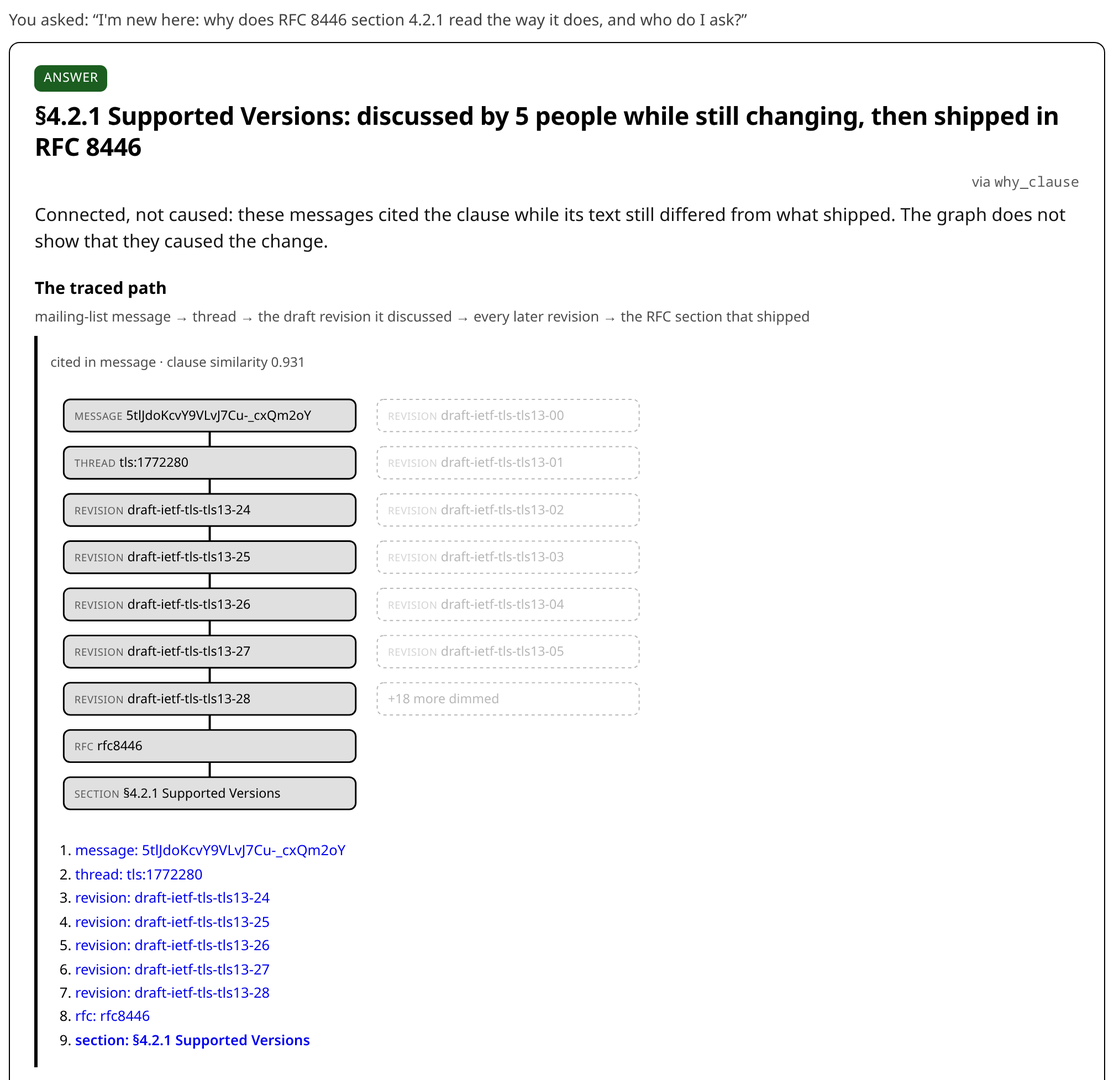
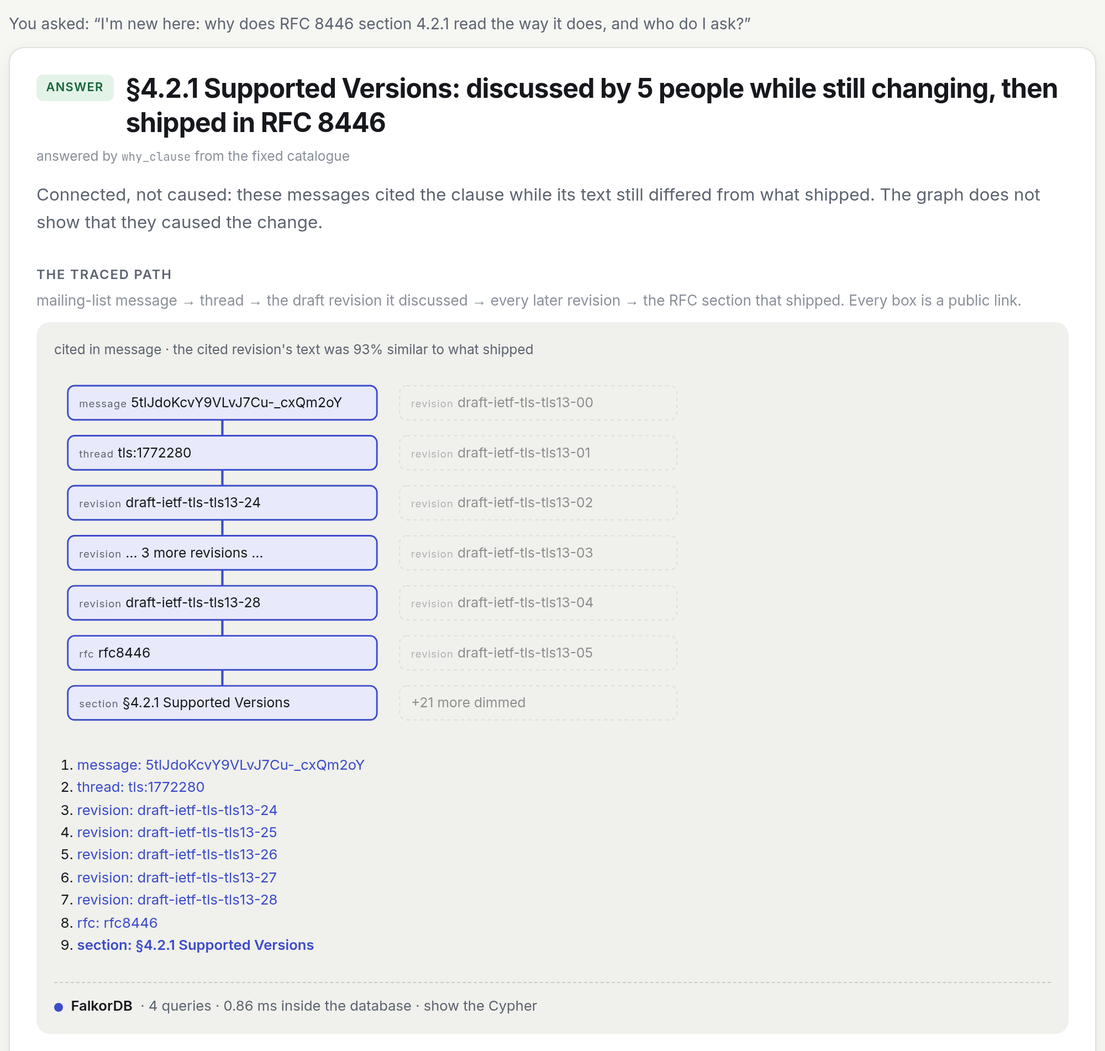
docs: README on the full record, the FalkorDB features and both held-out results
Every number re-measured tonight: 8,300 nodes, 55,603 edges, 3,078
messages (1,324 with text), 333 CITES, 47 traceable clauses; bench graph
13/13, RAG 1/10 exact and 3/10 in its top 10, subset graph 3/3 vs RAG 1/3;
held-out set 2 untuned 30/40 strict (31/40 with either decline), with the
scorer's 34/40 and why it was too lenient both stated; link check re-run
on the current graph, 10 of 276 sampled, 10/10 resolve. New sections for
the full-text, projection and algorithm queries, and limits for name-based
person merging, heading-only resolution, day-precision dates and the
dropped label-propagation communities. Screenshots retaken in the new design.

diff --git a/README.md b/README.md
@@ -1,78 +1,106 @@
 # Ratified
 
-**Ask why a decision was made, and get the dated discussion behind it, the people who were there, and who to ask now. Every answer is a FalkorDB graph path that ends in a public link.**
+**Ask why a decision was made, and get the dated discussion behind it, the people who were there, and who to ask now. Every answer is a FalkorDB graph traversal that ends in a public link, and every answer card shows the Cypher that produced it.**
 
 Every team argues in chat and forgets who decided what. Ratified is a company brain built on an organisation where every argument is public, the IETF's TLS working group, so a judge can click any answer through to the original email.
 
 Graph Hacks 2026 (WeMakeDevs × FalkorDB) · **Track 03: Company Brain** · Live demo: _link added at deploy_ · Demo video: _link added before submission_
 
-![The scenario answered: RFC 8446 §4.2.1 traced from a 2018 mailing-list message, through draft revisions -24 to -28, to the section that shipped](assets/scenario-path.png)
+![RFC 8446 §4.2.1 traced from a March 2018 mailing-list message, through draft revisions -24 to -28, to the section that shipped, with the FalkorDB query panel](assets/scenario-path.png)
 
 ## The scenario (one click on the live page)
 
-You just joined a team shipping TLS 1.3. RFC 8446 negotiates the protocol version in a `supported_versions` extension instead of the version field everyone used before. Why? The people who settled it are spread across years of mailing-list threads.
+You just joined a team shipping TLS 1.3. RFC 8446 negotiates the protocol version in a `supported_versions` extension instead of the version field every earlier TLS used. Why? The people who settled it are spread across years of mailing-list threads.
 
 Ask *"I'm new here: why does RFC 8446 section 4.2.1 read the way it does, and who do I ask?"* and the graph returns:
 
-1. **The discussion.** 6 messages from 5 people in the thread *"draft-ietf-tls-tls13-24 supported_versions complexity"* (1–3 March 2018) cited §4.2.1 while the draft was at -24, and the clause's text at -24 still differed from what shipped.
-2. **The traced path.** message → thread → draft-ietf-tls-tls13-24 → -25 → -26 → -27 → -28 → RFC 8446 → §4.2.1. Every node is a link to the datatracker, the mail archive or the RFC Editor.
-3. **Who to ask now.** The 5 people who cited the clause, plus the current TLS chairs and area directors, by name from the datatracker.
-4. **A drafted question.** Addressed to them, citing the thread and the section. It is rendered on the page and **never sent**: Ratified sends no email.
+1. **The discussion.** 6 messages from 5 people in the thread *"draft-ietf-tls-tls13-24 supported_versions complexity"* (1–3 March 2018) cited §4.2.1 while draft -24 was current, and §4.2.1's text in -24 still differed from what shipped.
+2. **The traced path.** message → thread → draft-ietf-tls-tls13-24 → -25 → -26 → -27 → -28 → RFC 8446 → §4.2.1. Every node is a link to the mail archive, the datatracker or the RFC Editor.
+3. **What to read with it.** Clauses cited in the same messages: §4.1.3 Server Hello (6 shared messages), §4.1.2 Client Hello and §4.1.4 Hello Retry Request (2 each).
+4. **Who to ask now.** The 5 people who cited it, plus the current TLS chairs and area directors, by name from the datatracker.
+5. **A drafted question** to them, citing the thread and the section. It is rendered and **never sent**.
+6. **The proof.** A panel listing the 4 Cypher queries FalkorDB ran for the card (under 1 ms inside the database).
 
-Ask about a section the RFC doesn't have (§9.4) and the card says **"the graph does not know"**. Ask about IESG ballots or meeting minutes, which were never ingested, and it declines rather than guessing.
+You don't need a section number. *"Why does early data work like this in TLS 1.3?"* resolves to §4.2.10 Early Data Indication through FalkorDB's full-text index on section headings. The card says which words matched and offers the runner-up clauses as one-click alternatives. *"What did people say about middleboxes?"* returns quotes from the list. *"Who knows the most about TLS 1.3?"* ranks people with FalkorDB's PageRank. Ask about IESG ballots or meeting minutes, which were never ingested, and the card says **the graph does not know**.
+
+![The landing page: the scenario, the 47 clauses with a traced discussion, and the PageRank ranking](assets/landing.png)
 
 ## What the graph holds
 
-One FalkorDB graph per working group, rebuilt from the cached public record in one command:
+One FalkorDB graph for one working group, rebuilt from the committed public record in one command:
 
 | | Count | Source |
 |---|---:|---|
-| Mailing-list messages | 2,011 (291 threads, 339 people) | mailarchive.ietf.org browse pages and message downloads |
-| Drafts / draft revisions | 113 / 839 | datatracker API (`/api/v1/doc/…`) |
+| Mailing-list messages | 3,078 (2013–2026), **1,324 with their full text** | mailarchive.ietf.org browse and search pages, message downloads |
+| Threads / people | 633 / 403 | the same |
+| Drafts / draft revisions | 113 / 839 | datatracker API |
 | RFCs a draft became | 66 | datatracker `became_rfc` relations |
 | RFC 8446 sections | 84 | rfc-editor.org text |
 | Chairs / area directors | 3 / 2 | datatracker roles and person records |
-| **Total** | **5,760 nodes · 9,814 edges** | |
+| **Total** | **8,300 nodes · 55,603 edges** | |
+
+The TLS 1.3 design era is covered by one archive search per draft revision, -18 to -28, with every message body downloaded (0 failures). That gives 333 `CITES` edges and **47 RFC 8446 clauses** that can be traced to a discussion.
 
 ### Graph data model
 
 ```
 (Person)-[:AUTHORED]->(Message)-[:IN_THREAD]->(Thread)
-(Message)-[:DISCUSSED]->(DraftRevision)            message names the revision, e.g. "draft-ietf-tls-tls13-24"
-(Message)-[:CITES]->(Section)                      "Section 4.2.1" in the message, resolved through that revision's alignment
-(Thread)-[:ABOUT_SECTION {matched_tokens}]->(Section)   subject-token overlap (a lead, 17.3% precise; see limits)
+(Message)-[:HAS_BODY]->(MessageBody {text})
+(Message)-[:DISCUSSED]->(DraftRevision)          the message names the revision, e.g. "draft-ietf-tls-tls13-24"
+(Message)-[:CITES]->(Section)                    "Section 4.2.1" in the message, resolved through that revision's alignment
+(Thread)-[:ABOUT_SECTION {matched_tokens}]->(Section)   subject-word overlap: a labelled lead, not evidence
 (Draft)-[:HAS_REVISION]->(DraftRevision)-[:SUPERSEDED]->(DraftRevision)
-(DraftRevision)-[:BECAME]->(RFC)-[:HAS_SECTION]->(Section)
+(DraftRevision)-[:BECAME]->(RFC {published})-[:HAS_SECTION]->(Section)
 (DraftRevision)-[:ALIGNS_SECTION {similarity, changed, how}]->(Section)
 (Draft)-[:IN_WG]->(Wg)<-[:CHAIRS]-(Chair)    (Wg)<-[:AD_FOR]-(AreaDirector)
-(Message)-[:HAS_BODY]->(MessageBody)
+
+derived in FalkorDB by Cypher at ingest:
+(Section)-[:CO_CITED {n}]->(Section)             two sections cited by the same message (n messages)
+(Person)-[:CO_DISCUSSED {n}]->(Person)           two people who wrote in the same thread (n threads)
+
+full-text indexes: Section.title · Message.subject · MessageBody.text
 ```
 
 | Node | Key properties |
 |---|---|
-| `Message` | `id` (mailarchive id), `subject`, `date`, `from`, `url`, `depth`, `has_body` |
+| `Message` | `id` (mailarchive id), `subject`, `date`, `from`, `url`, `has_body` |
 | `Thread` | `id` (`tls:<n>`), `subject`, `url`, `n_messages`, `first_date`, `last_date` |
 | `DraftRevision` | `id` (`draft-ietf-tls-tls13-24`), `rev`, `date` |
+| `RFC` | `id` (`rfc8446`), `number`, `title`, `url`, `published` (month, read from the RFC header) |
 | `Section` | `id` (`rfc8446#4.2.1`), `number`, `title`, `url` (rfc-editor anchor) |
 | `Person`, `Chair`, `AreaDirector` | `name`, `email` |
 
-The schema is frozen in [`src/ratified/schema.py`](src/ratified/schema.py), and ingest and every query build their statements from it. Three edges carry the reasoning:
+The schema (version 2) lives in [`src/ratified/schema.py`](src/ratified/schema.py), and ingest and every query build their statements from it. Four edges carry the reasoning:
 
-* **`ALIGNS_SECTION`** maps each section of each draft revision to the RFC section it became, **by heading text, not by number**, because numbers shift between revisions. `changed` is true when that revision's section text is less than 98% similar to the shipped text.
+* **`ALIGNS_SECTION`** maps each section of each draft revision to the RFC section it became. It matches **by heading text, not by number**, because numbers shift between revisions. `changed` is true when that revision's section text is less than 98% similar to the shipped text.
 * **`DISCUSSED`** links a message to every draft revision it names.
-* **`CITES`** links a message to an RFC section, but only through a revision the same message names. "Section 4.2.9" in a message about -21 means *-21's* §4.2.9, which the alignment resolves to RFC §4.2.10. 36 citations resolve; 32 that can't be resolved are dropped rather than guessed.
+* **`CITES`** links a message to an RFC section, but only through a revision the same message names. "Section 4.2.9" in a message about -21 means *-21's* §4.2.9, which the alignment resolves to RFC §4.2.10. A citation that can't be resolved is dropped, not guessed.
+* **`CO_CITED` and `CO_DISCUSSED`** are projections FalkorDB computes from the record. They're written in both directions because PageRank follows edge direction and a pair of people has none.
 
-### The Cypher the product depends on
+### What FalkorDB does, query by query
 
-All Cypher is hand-written and lives in [`src/ratified/tools.py`](src/ratified/tools.py). A free-text question is routed by a deterministic shape router ([`routing.py`](src/ratified/routing.py)) to **one tool from a fixed catalogue**. No model writes Cypher, and no model output becomes a citation.
+All Cypher is hand-written in [`src/ratified/tools.py`](src/ratified/tools.py), [`search.py`](src/ratified/search.py) and [`insights.py`](src/ratified/insights.py). A deterministic router ([`routing.py`](src/ratified/routing.py)) sends each question to **one tool from a fixed catalogue**. No model writes Cypher, and no model output becomes a citation. Every card's FalkorDB panel shows the queries that ran, their parameters, row counts and FalkorDB's own execution time.
 
-**`why_clause`: the discussion behind a shipped clause** (the scenario):
+**Resolve a clause named in plain words** (FalkorDB full-text index, terms OR-ed, scoped to the RFC the draft became):
+
+```cypher
+CALL db.idx.fulltext.queryNodes('Section', $q) YIELD node, score
+MATCH (:Draft {id:$draft})-[:HAS_REVISION]->(:DraftRevision)-[:BECAME]->(:RFC)-[:HAS_SECTION]->(node)
+RETURN DISTINCT node.id AS sid, node.number AS number, node.title AS title, node.url AS url, score
+ORDER BY score DESC, number LIMIT $limit
+```
+
+**The discussion behind a clause**, counting a message only if it was written while the revision it names was current (before the next revision, or before the RFC's publication month for the last one):
 
 ```cypher
 MATCH (s:Section {id:$sid})
 MATCH (m:Message)-[:CITES]->(s)
 MATCH (m)-[:DISCUSSED]->(dr:DraftRevision)-[al:ALIGNS_SECTION]->(s)
 WHERE al.changed = true
+OPTIONAL MATCH (dr)-[:SUPERSEDED]->(next:DraftRevision)
+OPTIONAL MATCH (shipped:RFC)-[:HAS_SECTION]->(s)
+WITH s, m, dr, coalesce(next.date, shipped.published + '-31') AS until
+WHERE until IS NULL OR m.date <= until
 MATCH (m)-[:IN_THREAD]->(t:Thread)
 OPTIONAL MATCH (p:Person)-[:AUTHORED]->(m)
 RETURN m.id AS mid, m.url AS murl, m.date AS date, m.subject AS subject,
@@ -81,67 +109,74 @@ RETURN m.id AS mid, m.url AS murl, m.date AS date, m.subject AS subject,
 ORDER BY date, mid
 ```
 
-**`clause_receipt`: the traced path**, a variable-length walk down the revision chain to the RFC section that shipped:
+**The traced path**, a variable-length walk down the revision chain to the section that shipped:
 
 ```cypher
-MATCH (s:Section {id:$sid})
-MATCH (m:Message)-[:CITES]->(s)
-MATCH (m)-[:DISCUSSED]->(dr:DraftRevision)
-MATCH (dr)-[al:ALIGNS_SECTION]->(s)
-MATCH (m)-[:IN_THREAD]->(t:Thread)
 MATCH p=(dr)-[:SUPERSEDED*0..]->(last:DraftRevision)
 MATCH (last)-[:BECAME]->(rfc:RFC)-[:HAS_SECTION]->(s)
-WHERE al.changed = true
-RETURN DISTINCT m.id AS mid, m.url AS murl, m.date AS date, m.subject AS subject,
-       t.id AS tid, t.url AS turl,
-       [n IN nodes(p) | n.id] AS chain, rfc.id AS rfc,
-       s.number AS number, s.title AS title, s.url AS surl,
-       al.similarity AS similarity, al.changed AS changed
-ORDER BY m.date
+RETURN [n IN nodes(p) | n.id] AS chain, rfc.id AS rfc, s.number AS number
 ```
 
-**`aggregate_unresolved`: clauses discussed while still changing, with no later trail.** Clauses are aggregated across every revision of the draft; for each one, the tool then checks whether any message cites it after the last discussion:
+**Derived projections** (run at ingest, idempotent):
 
 ```cypher
-MATCH (d:Draft {id:$draft})-[:HAS_REVISION]->(dr:DraftRevision)-[al:ALIGNS_SECTION]->(s:Section)
-WHERE al.changed = true
-MATCH (m:Message)-[:DISCUSSED]->(dr)
-MATCH (m)-[:CITES]->(s)
-OPTIONAL MATCH (p:Person)-[:AUTHORED]->(m)
-OPTIONAL MATCH (m)-[:IN_THREAD]->(t:Thread)
-RETURN s.id AS sid, s.number AS number, s.title AS title, s.url AS url,
-       collect(DISTINCT dr.id) AS revisions,
-       collect(DISTINCT m.id) AS messages, collect(DISTINCT m.url) AS message_urls,
-       collect(DISTINCT m.date) AS dates, collect(DISTINCT p.name) AS people,
-       collect(DISTINCT t.id) AS threads, collect(DISTINCT t.url) AS thread_urls
+MATCH (a:Section)<-[:CITES]-(m:Message)-[:CITES]->(b:Section) WHERE a.id <> b.id
+WITH a, b, count(DISTINCT m) AS n
+MERGE (a)-[r:CO_CITED]->(b) SET r.n = n
+
+MATCH (p:Person)-[:AUTHORED]->(:Message)-[:IN_THREAD]->(t:Thread)<-[:IN_THREAD]-(:Message)<-[:AUTHORED]-(q:Person)
+WHERE p.id <> q.id
+WITH p, q, count(DISTINCT t) AS n
+MERGE (p)-[r:CO_DISCUSSED]->(q) SET r.n = n
 ```
 
-Ingest is batched `UNWIND $rows AS r MERGE …` statements generated from the schema ([`schema.py`](src/ratified/schema.py)).
+**Who knows what** (FalkorDB graph algorithms over the projection):
 
-Every answer card carries one of four outcomes: **answer**, **partial** (some evidence missing, and the card says which), **the graph does not know**, or **conflict** (the record disagrees with itself, e.g. a citation that resolves to two clauses).
+```cypher
+CALL algo.pageRank('Person', 'CO_DISCUSSED') YIELD node, score
+CALL algo.betweenness({nodeLabels:['Person'], relationshipTypes:['CO_DISCUSSED']}) YIELD node, score
+```
 
-The full catalogue is `why_clause`, `aggregate_unresolved`, `who_argued`, `what_happened_to`, `precedent`, `sync`, `section_by_heading`, `revisions`, `count_unresolved`, `chairs`, `became_rfc`, `threads_by_subject`, `count_became` and `count_thread_messages`. `sync` re-fetches the last 24 hours of the list and reports what changed.
+**What people said**: `db.idx.fulltext.queryNodes` over `MessageBody.text` and `Message.subject`, then a traversal from each hit to its thread, its author and the clauses it `CITES`. The card quotes the writer's own words around the match, with quoted replies and email addresses removed.
+
+Ingest is batched `UNWIND $rows AS r MERGE …` statements generated from the schema. Every card carries one of four outcomes: **answer**, **partial** (and which evidence is missing), **the graph does not know**, or **conflict** (the record disagrees with itself).
+
+The catalogue: `why_clause`, `search_discussion`, `who_knows`, `aggregate_unresolved`, `who_argued`, `what_happened_to`, `precedent`, `sync`, `section_by_heading`, `revisions`, `count_unresolved`, `chairs`, `became_rfc`, `threads_by_subject`, `count_became`, `count_thread_messages`. `sync` re-fetches the last 24 hours of the list, adds the new messages and recomputes the projections.
 
 ## Evaluation
 
-Thirteen questions over the TLS working group's record, in four categories. Every answer key is derived from the primary record (the RFC Editor text, the datatracker API, the mailarchive browse pages) by [`bench/make_keys.py`](bench/make_keys.py). That is a second, independent parser, and it refuses to run if the product has been imported, so no key is produced by the graph it grades. [`bench/results.json`](bench/results.json) is the authoritative artefact.
+### Graph vs retrieval, 13 questions
+
+Answer keys are derived from the primary record (the RFC Editor text, the datatracker API, the mailarchive pages) by [`bench/make_keys.py`](bench/make_keys.py). It is a second, independent parser that refuses to run if the product is imported, so no key comes from the graph it grades. [`bench/results.json`](bench/results.json) is the authoritative artefact.
 
 | Questions | Graph (direct Cypher) | Graph via the shipped router | RAG baseline (BM25 + bge-small) |
 |---|---|---|---|
-| single-lookup | 4/4 | 4/4 | 1/4 |
+| single-lookup | 4/4 | 4/4 | 1/4 exact, 3/4 in top-10 |
 | collect | 3/3 | 3/3 | 0/3 |
 | aggregate (counts) | 3/3 | 3/3 | not scoreable |
 | unanswerable | 3/3 abstained | 3/3 abstained | 0/3 (no abstention) |
 
-**Read this table carefully, because it is easy to over-read:**
+Read it carefully:
 
-* **The fair comparison is the text-supported subset.** On the 3 questions whose evidence sits in text the RAG baseline indexes (`a1`, `a2`, `b3`), it is **graph 3/3, RAG 1/3**. On the other 7 scoreable questions, the answer isn't in any text RAG can retrieve (revision lists live in the datatracker structure, and only 69 of 2,011 messages carry a body), so RAG's 0s there mostly measure the corpus, not retrieval.
-* **RAG cannot abstain by construction.** It is a top-10 retriever with no score cutoff, so "0/3 abstained" describes the baseline, not a finding.
-* **The router column was fitted to these 13 questions.** Two passes of router work took it from 1/13 to 13/13, so it is not a held-out score. A question phrased differently can miss a route.
-* **The questions come from the graph's own domain**, so the direct column is favourable by design. RAG is scored as a retriever (key atoms in the rank-1 chunk), with no LLM reading its context, which a generative answerer would improve on.
-* **Small n:** 13 questions, reported as raw counts. `b1` and `c3` are the same fact in two forms.
+* **The fair comparison is the text-supported subset.** On the 3 questions whose evidence sits in text the retriever indexes (`a1`, `a2`, `b3`), it is **graph 3/3, RAG 1/3**. On the other scoreable questions the answer isn't in any text at all (revision lists are datatracker structure), so RAG's zeros there mostly measure the corpus. RAG's score rose as the corpus grew (1/10 → 3/10 in its top 10), and we report the higher number.
+* **RAG can't abstain by construction.** It's a top-10 retriever with no score cutoff.
+* **The router column was fitted to these 13 questions.** See the held-out sets below for an honest measure.
+* **Small n, favourable domain.** 13 questions from the graph's own domain, reported as raw counts. `b1` and `c3` are one fact in two forms.
 
-**Citation links, click-verified:** [`bench/verify_chips.py`](bench/verify_chips.py) fetched a stratified sample of **10 of the 132** links the hero and receipt views render, applying the strictest check per kind (the `id="section-N"` anchor must exist; the revision page must name the revision). The first run found **every revision link was a 404** (wrong URL form), which was fixed. After the fix, 10/10 resolve. That is a sample, not the full set.
+### The router on questions it never saw
+
+Two sets of 40 questions were written by a second model (DeepSeek V4.1 Flash via Command Code) with no access to the router's code. Each set was scored once **before** any router change, and both results are committed.
+
+| Set | First pass, before any change | Then |
+|---|---|---|
+| [`heldout`](bench/heldout_results.json) | 22/40 | used to generalise the router's vocabulary, so no longer held out |
+| [`heldout2`](bench/heldout2_results.json) | **30/40 strict, 31/40 counting both kinds of correct decline** (the scorer printed 34/40; reading the rows showed 4 "any section" questions that took *TLS 1.3* as section 1.3, which is a wrong answer) | its misses were fixed ("TLS 1.3" is no longer read as a section number), so it is no longer held out either |
+
+In the second set's first pass, 5 questions were confidently routed wrong. That's the number to keep in mind: a question phrased differently from anything above can still miss.
+
+### Citation links, click-verified
+
+[`bench/verify_chips.py`](bench/verify_chips.py) fetches a stratified sample of **10 of the 276** links the clause views render, applying the strictest check per kind (the RFC page must carry the `id="section-N"` anchor; the revision page must name the revision). 10/10 resolve on the current graph. An earlier run found **every revision link was a 404**, which was fixed. This is a sample, not the full set.
 
 ### Reproduce
 
@@ -149,9 +184,10 @@ Thirteen questions over the TLS working group's record, in four categories. Ever
 docker compose up --build -d               # FalkorDB + the app; the app rebuilds the graph on boot
 pip install -e '.[bench]'                  # rank_bm25 + fastembed + numpy, once
 RATIFIED_FALKOR_PORT=16379 RATIFIED_OFFLINE=1 python -m ratified.bench
+python bench/heldout.py heldout2           # the router on the second question set
 ```
 
-Wait for `docker compose ps` to report the app healthy before the last line. `RATIFIED_OFFLINE=1` makes the run network-free (the record is in `cache/http/`). `16379` is the host port compose publishes FalkorDB on.
+Wait for `docker compose ps` to report the app healthy before running the bench. `RATIFIED_OFFLINE=1` makes the run network-free (the record is in `cache/http/`).
 
 ## Run it
 
@@ -160,32 +196,36 @@ git clone <this repo> && cd ratified
 docker compose up --build        # FalkorDB + the app on http://127.0.0.1:8000, offline, no keys
 ```
 
-The public record the graph is built from is committed (`data/`, `cache/http/`, ~23 MB), so a fresh clone builds and runs with no network and no API key. To rebuild the graph by hand (`pip install -e .`):
+The public record the graph is built from is committed (`data/`, `cache/http/`), so a fresh clone builds and runs with no network and no API key. To rebuild by hand (`pip install -e .`):
 
 ```sh
 python -m ratified            # rebuild from the committed record, no network
 python -m ratified --refresh  # re-fetch the datatracker and section text first, then rebuild
+python -m ratified.mail --query draft-ietf-tls-tls13-24 --body-mode all   # pull one archive search with bodies
 ```
 
-Tests: `RATIFIED_FALKOR_PORT=16379 pytest` (81 tests against the compose FalkorDB; graph tests skip if none is reachable).
+Tests: `RATIFIED_FALKOR_PORT=16379 pytest` (107 tests against the compose FalkorDB). Graph tests skip if no FalkorDB is reachable. Deployment scripts for a single EC2 host are in [`deploy/`](deploy/).
 
-An LLM is optional and off in the demo (`RATIFIED_LLM=off`). When a provider key is set, it only breaks ties in the router and rephrases a card in one sentence, labelled *"LLM phrasing — not a source"*. Responses are cached by (model, prompt, graph hash).
+An LLM is optional and off in the demo (`RATIFIED_LLM=off`). When a provider key is set, it only breaks ties in the router and rephrases a card in one sentence, labelled *"LLM phrasing, not a source"*.
 
 ## Prior art
 
-[mnot/ietf-llm](https://github.com/mnot/ietf-llm) builds a queryable corpus of an IETF working group's public record (charter, drafts, RFCs, minutes, mail, GitHub issues) and summarises the positions argued on a topic. Ratified does not claim to be the first to mine working-group arguments. What it adds is a graph: answers are FalkorDB traversals that end in mechanical links (message → thread → revision → RFC section), an empty traversal is reported as "the graph does not know", and the aggregate is a graph-negative ("no later path found").
+[mnot/ietf-llm](https://github.com/mnot/ietf-llm) builds a queryable corpus of an IETF working group's public record and summarises the positions argued on a topic. Ratified does not claim to be the first to mine working-group arguments. What it adds is a graph: answers are FalkorDB traversals ending in mechanical links (message → thread → revision → RFC section), "who knows what" and "read this with" come from graph projections and FalkorDB's algorithms, and an empty traversal is reported as "the graph does not know".
 
 ## Honest limits
 
 **No causal claims.** The graph shows that an objection thread and a changed RFC clause are connected. It does not show that the objection caused the change.
 
-* **Only 69 of 2,011 messages have a body in the record**, so `CITES` has 36 edges. Every "who discussed this clause" answer is drawn from those 69 messages. Clauses with no cited discussion are reported as *partial*, not filled in.
-* **"Discussed while still changing" is mechanical**: a message cited the clause and named a revision whose text for it was under 98% similar to the RFC. It does not mean the person objected. Several people it names are the draft's own editors.
-* **"No resolution trail"** means no later message in the record cites the clause. Decisions made at meetings, in minutes or in IESG ballots are outside the record and invisible to it.
-* **Subject-token leads are weak.** The `ABOUT_SECTION` edges behind the aggregate card's "lead" bucket were hand-checked: **9 of 52** decided links correct (17.3%, 36 ties). They are labelled as leads and kept out of the headline count.
-* **The draft↔RFC alignment** was precision-checked only for draft-ietf-tls-tls13 -18 to -28 against RFC 8446, not for the other 65 RFCs.
-* **The chairs and area directors are the current ones**, not the ones who chaired in 2018.
-* **One working group** (TLS) and one RFC's section text (RFC 8446).
+* **"Discussed while still changing" is mechanical.** A message cited the clause, named a revision whose text for it was under 98% similar to the RFC, and was dated no later than that revision's successor (or the RFC's publication month). It does not mean the person objected; several people it names edited the draft. Message dates are day-precision, so a message from the same day as the next revision still counts.
+* **Coverage.** 1,324 of 3,078 messages have their text. 1,753 of the 1,754 without it are 2026 list traffic, pulled from browse pages without bodies. 47 of RFC 8446's 84 sections have a traced discussion; the others are answered as *partial*, not filled in.
+* **Plain-words resolution uses section headings only.** Adding section text to the index made broad overview sections outrank exact headings, so it was left out. In a hand spot-check of 10 topic questions, the first match was a sensible clause for 8. The two misses (*downgrade protection*, *middlebox compatibility*) matched one generic heading word. The card shows the matched words and the runner-ups for this reason.
+* **People are merged by display name.** One person posts from several addresses, so 60 people were split before this rule. Two different people with the same name would now be merged. Mail-system "Last, First" names are turned round.
+* **Centrality is not authority.** PageRank and betweenness rank how connected someone's conversations are, over every thread in the record, including 2026 traffic.
+* **Clause communities were tried and dropped.** FalkorDB's label propagation put 47 of 57 co-cited clauses in one group, which tells a reader nothing. Direct co-citation counts are shown instead.
+* **Subject-word leads are weak.** The `ABOUT_SECTION` links behind the aggregate card's "lead" bucket were hand-checked on an earlier, smaller set: **9 of 52** decided links correct (17.3%, 36 ties). They're labelled as leads and kept out of the headline count.
+* **"No resolution trail"** means no later message in the record cites the clause. Decisions made in meetings, minutes or IESG ballots are outside the record.
+* **The alignment** was precision-checked for draft-ietf-tls-tls13 -18 to -28 against RFC 8446 only.
+* **The chairs and area directors are today's**, not the ones who chaired in 2018.
 
 ## AI use
 
